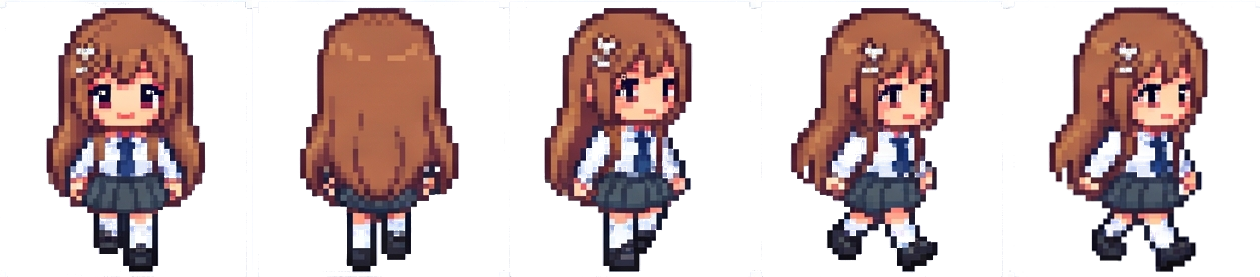
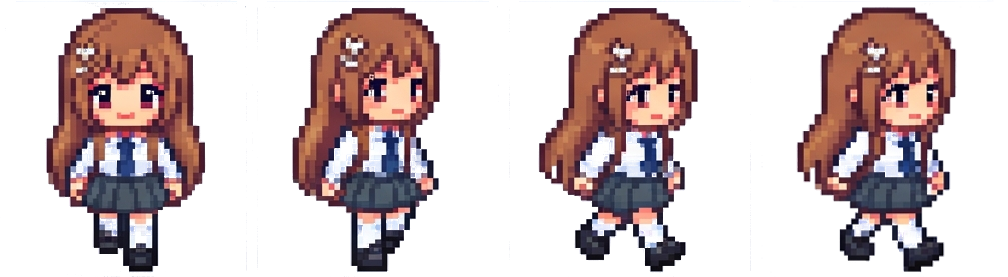
Fix corner mask math and drop the back-turn walk frame
The corner cutout used the true corner point as its arc center, so
"distance > radius" was never true near the corner and nothing actually
got masked — the white bleed was unchanged despite the previous commit.
Centers are now inset by the radius, like an actual rounded rect.

Also drops the walk cycle's back-of-head frame: with only one walk
animation shared by every movement direction, that frame read as
"turning away" no matter which way the character was actually sliding
on screen. The remaining 4 frames all face the viewer through the
stride.

diff --git a/scripts/extract-character.js b/scripts/extract-character.js
@@ -32,21 +32,25 @@ function bgAlpha(r, g, b) {
 // the lavender color-key above. Punch those out geometrically instead of by
 // color, since color-matching "white" would also eat the character's white
 // shirt/socks. The character art never reaches into these corners.
-const CORNER_RADIUS = 20;
+const CORNER_RADIUS = 22;
 
+// A rounded rect's corner is an arc centered *inset* by the radius from the
+// true corner point — not the corner point itself. (Using the corner point
+// as the circle center, as an earlier version of this did, means "distance
+// > radius" is never true near the corner, so nothing actually gets cut.)
 function cornerAlpha(x, y, width, height) {
-  const corners = [
-    [0, 0],
-    [width, 0],
-    [0, height],
-    [width, height],
-  ];
-  for (const [cx, cy] of corners) {
-    if (Math.abs(x - cx) <= CORNER_RADIUS && Math.abs(y - cy) <= CORNER_RADIUS) {
-      if (Math.hypot(x - cx, y - cy) > CORNER_RADIUS) return 0;
-    }
-  }
-  return 255;
+  const inLeft = x <= CORNER_RADIUS;
+  const inRight = x >= width - CORNER_RADIUS;
+  const inTop = y <= CORNER_RADIUS;
+  const inBottom = y >= height - CORNER_RADIUS;
+  let cx = null;
+  let cy = null;
+  if (inLeft && inTop) { cx = CORNER_RADIUS; cy = CORNER_RADIUS; }
+  else if (inRight && inTop) { cx = width - CORNER_RADIUS; cy = CORNER_RADIUS; }
+  else if (inLeft && inBottom) { cx = CORNER_RADIUS; cy = height - CORNER_RADIUS; }
+  else if (inRight && inBottom) { cx = width - CORNER_RADIUS; cy = height - CORNER_RADIUS; }
+  if (cx === null) return 255;
+  return Math.hypot(x - cx, y - cy) > CORNER_RADIUS ? 0 : 255;
 }
 
 async function loadKeyed(x0, y0, w, h) {
@@ -71,7 +75,11 @@ async function loadKeyed(x0, y0, w, h) {
 }
 
 const IDLE_FRONT = { y: [87, 363], cells: [[628, 880], [891, 1143], [1155, 1407], [1419, 1671]] };
-const WALK_SOUTH = { y: [438, 715], cells: [[628, 880], [891, 1143], [1155, 1408], [1419, 1672], [1684, 1935]] };
+// Cell 2 of the original 5 (x:[891,1143]) is a full back-of-head turn —
+// dropped, since it reads as "walking away" no matter which way the
+// character is actually moving on screen. The remaining 4 all face the
+// viewer through the stride.
+const WALK_SOUTH = { y: [438, 715], cells: [[628, 880], [1155, 1408], [1419, 1672], [1684, 1935]] };
 const PORTRAIT = { x: [111, 505], y: [64, 692] };
 
 async function extractRow(spec, outFile) {

diff --git a/src/assets/character/index.ts b/src/assets/character/index.ts
@@ -14,7 +14,7 @@ export const WALK_SOUTH_SPRITE: SpriteSheetSpec = {
   source: require('./walk-south.png'),
   frameWidth: 252,
   frameHeight: 277,
-  frameCount: 5,
+  frameCount: 4,
   fps: 6,
 };
 
